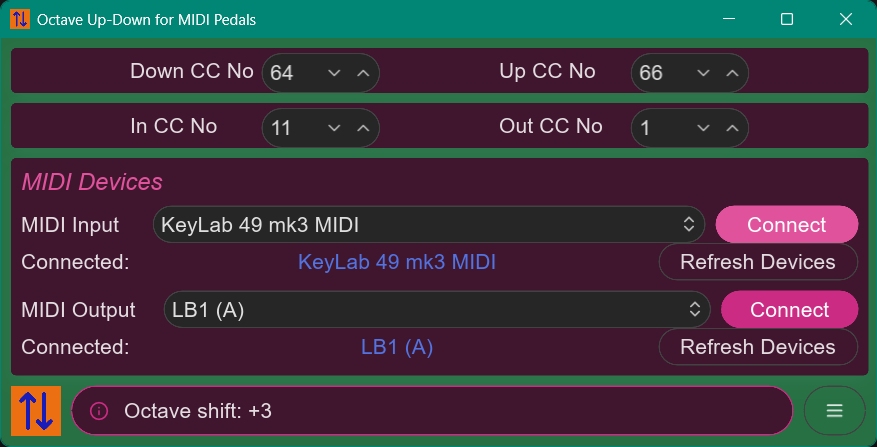
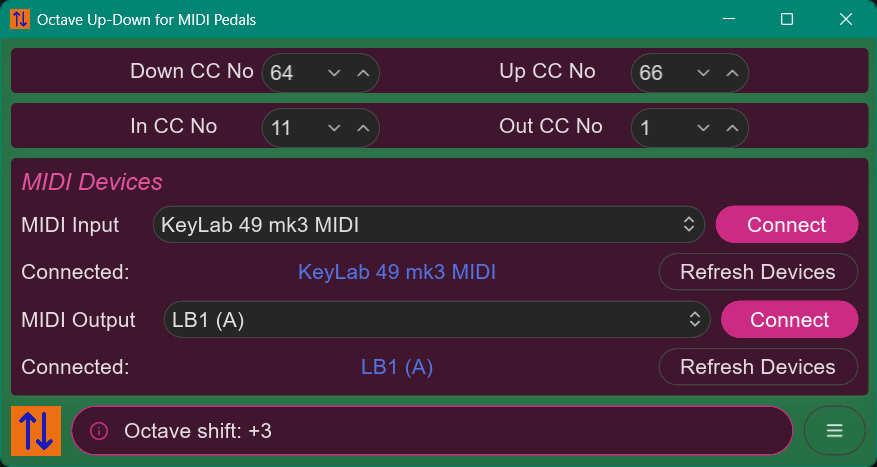
Add space above Refresh buttons. README WIP.

diff --git a/README.md b/README.md
@@ -1,1 +1,8 @@
 # Octave Up-Down for MIDI Pedals
+
+Octave Up-Down for MIDI Pedals allows a pair or sustain pedals or momentary footswitches to be used instead of the octave shift buttons on a MIDI keyboard to transpose notes and note aftertouch /polyphonic aftertouch / pressure up or down by multiple octaves. A bonus feature allows the control change number of a MIDI controller to be changed:  the controller may be one of the pedals used for octave transposition.
+
+<img src="docs\images\Octave Up-Down.png" alt="Octave Up-Down" style="zoom: 80%;" />
+
+## MIDI Connections
+
